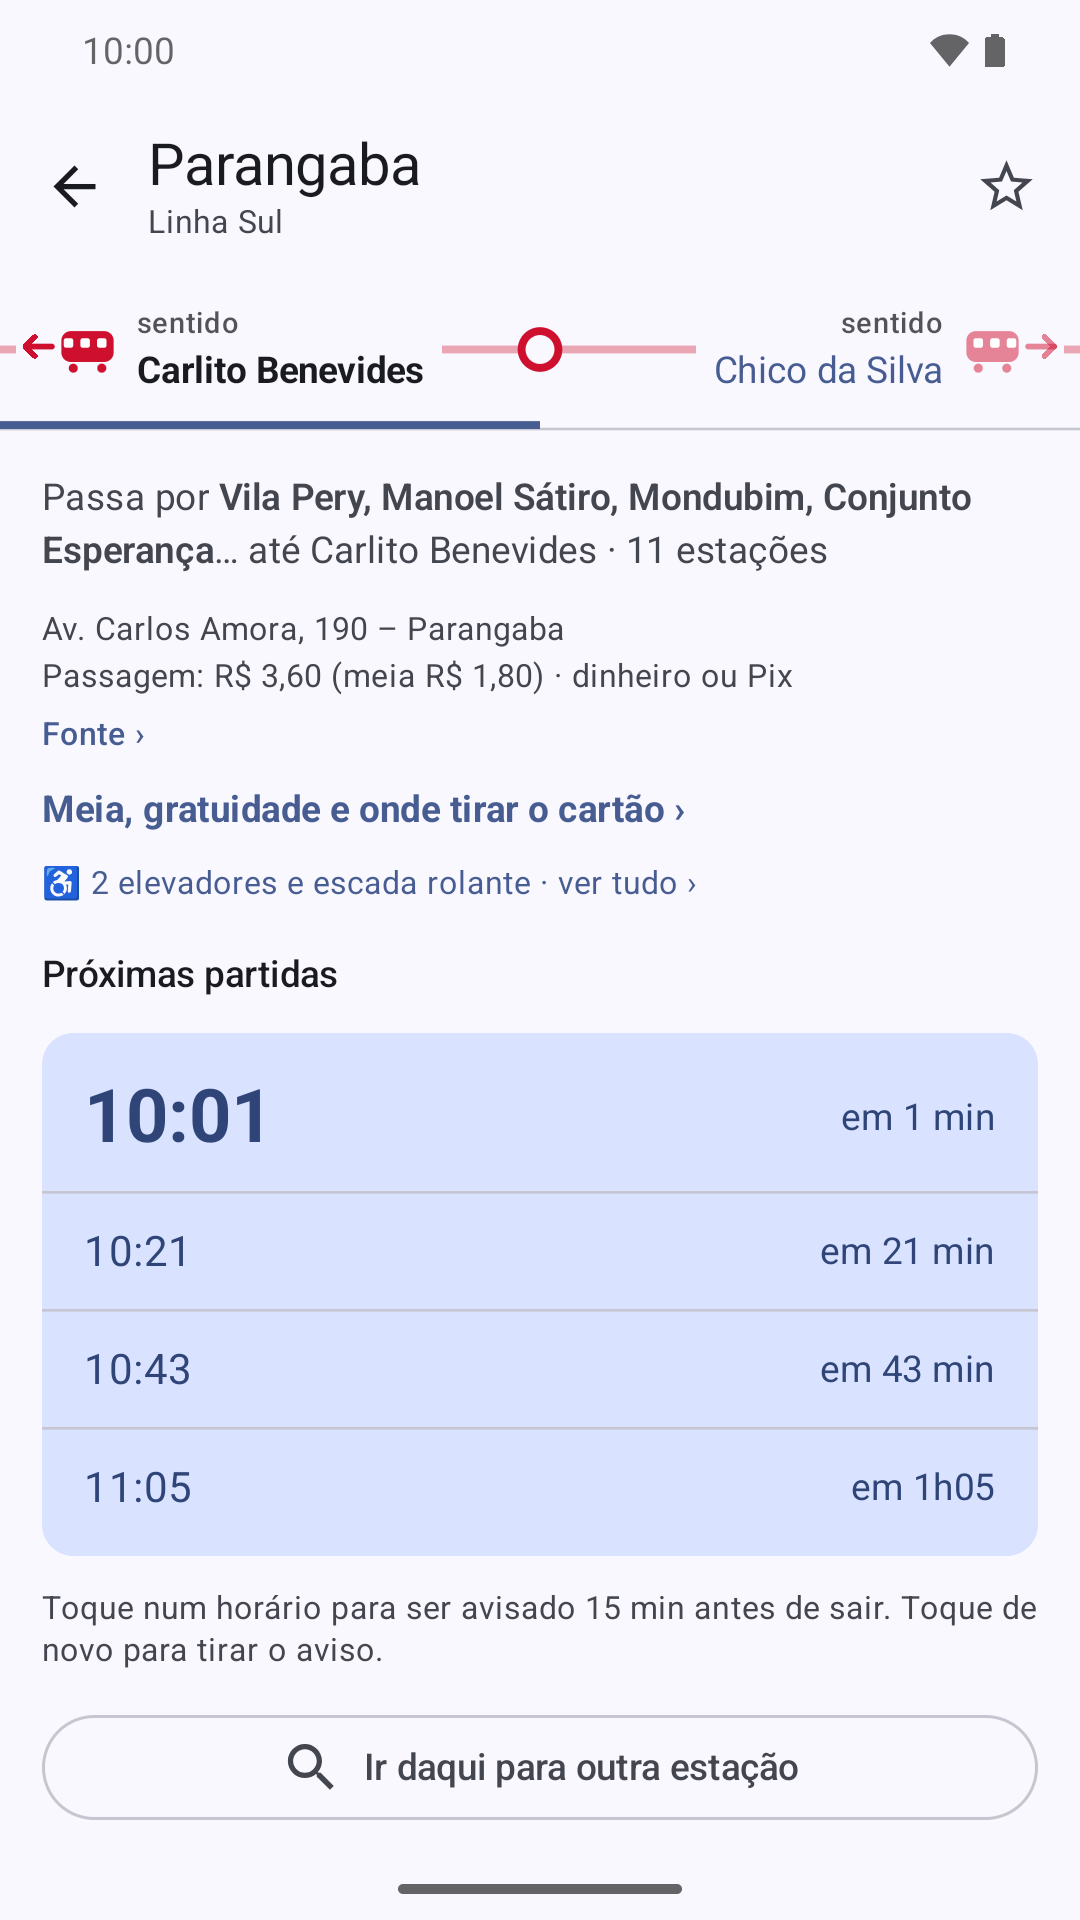
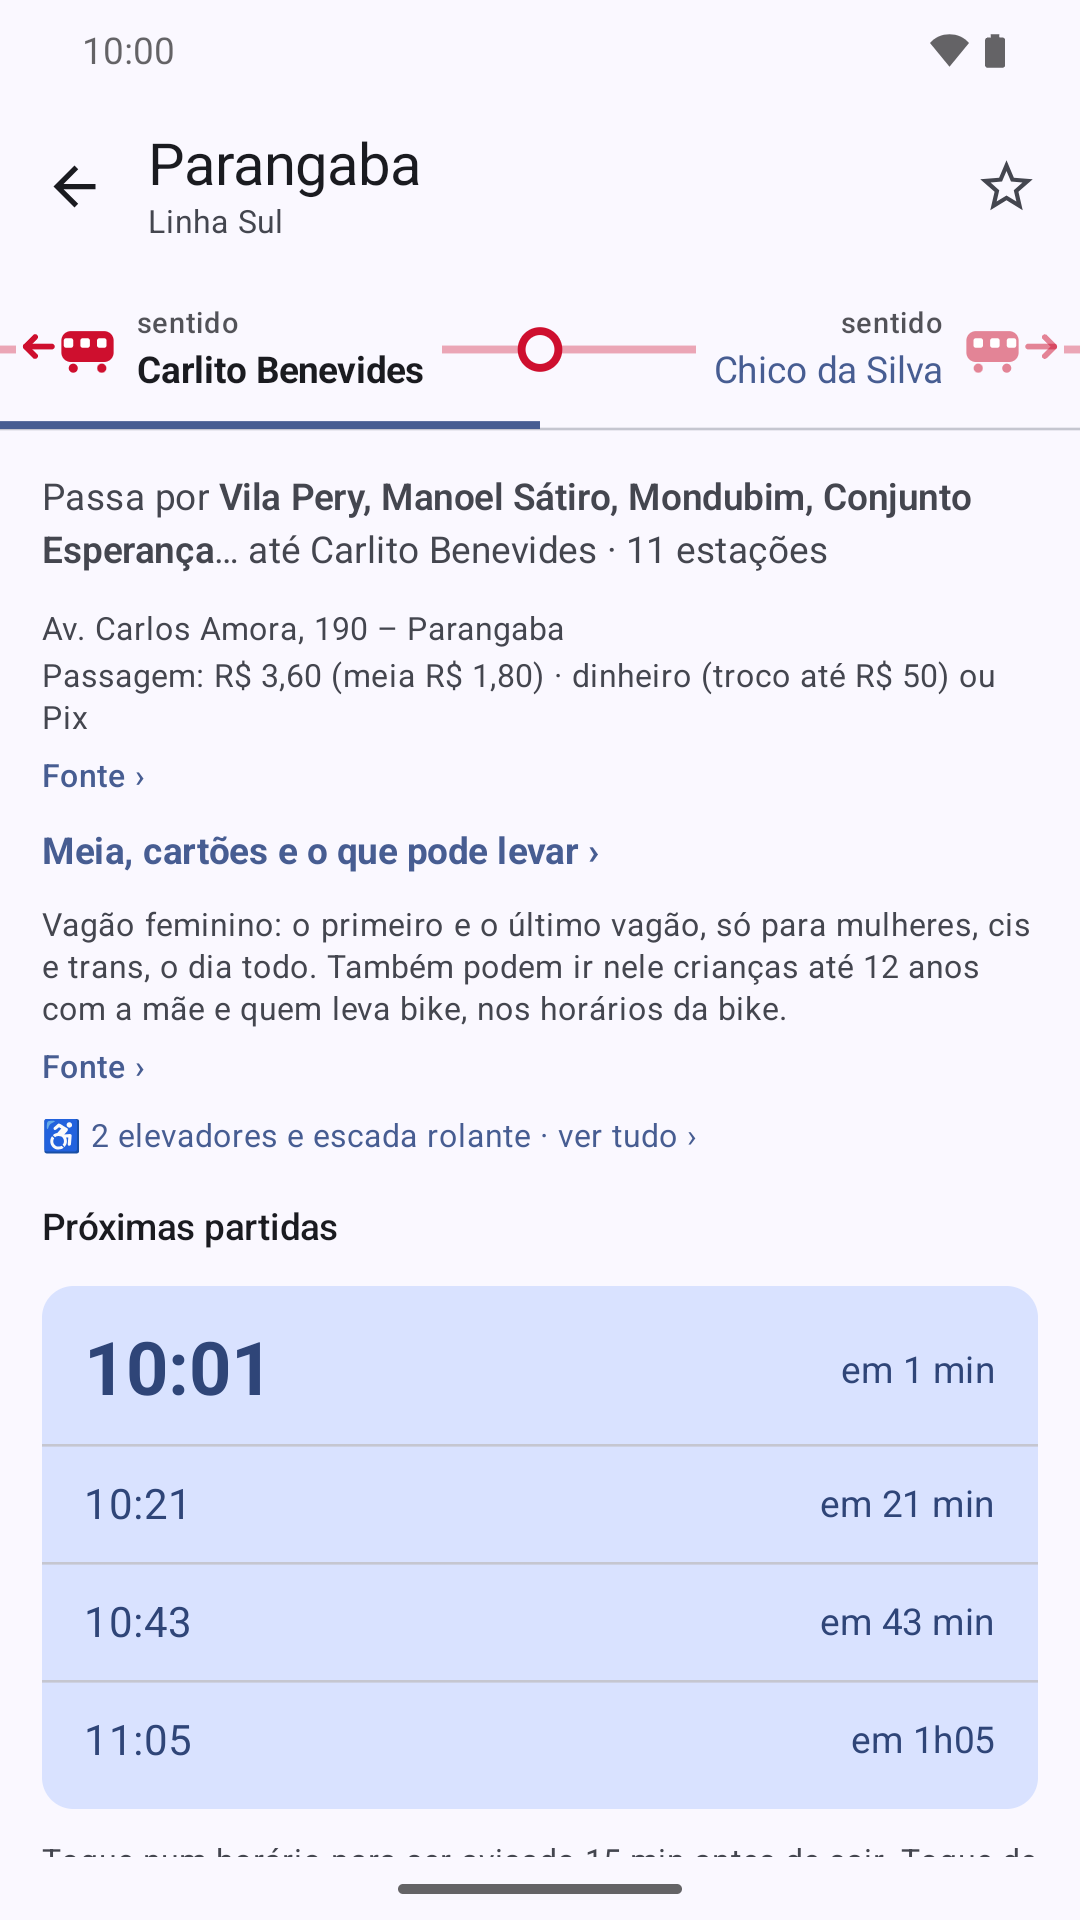
Capturas 1, 2, 5, 7 e destaque com a 1.108
Tela inicial com a Nina na barra de baixo e o Esconder de "Seus lugares",
Parangaba e São Benedito com o aviso do vagão feminino, e "Como você quer
ir?" com a Nina na barra. Feitas numa terça simulada (24/11) sem operação
especial no topo. No site, a descrição da captura da Parangaba acompanha.

Changed region(s): [[0.0306, 0.375, 0.9778, 0.9688], [0.6417, 0.3438, 0.9167, 0.375], [0.9167, 0.4688, 0.9472, 0.5]]

diff --git a/docs/index.html b/docs/index.html
@@ -221,7 +221,7 @@
     <div class="shots">
       <figure><img src="img/tela-1.jpg" alt="Tela inicial com Casa e Trabalho no topo e os próximos metrôs das duas estações mais próximas" loading="lazy"><figcaption>Estações perto de você</figcaption></figure>
       <figure><img src="img/tela-4.jpg" alt="Widgets na tela inicial com os próximos horários da estação" loading="lazy"><figcaption>Widget na tela inicial</figcaption></figure>
-      <figure><img src="img/tela-2.jpg" alt="Horários de uma estação, com a integração com a Linha Nordeste" loading="lazy"><figcaption>Todos os horários</figcaption></figure>
+      <figure><img src="img/tela-2.jpg" alt="Horários da estação Parangaba, com endereço, passagem e o aviso do vagão feminino" loading="lazy"><figcaption>Todos os horários</figcaption></figure>
       <figure><img src="img/tela-3.jpg" alt="Modo viagem com o aviso de descida" loading="lazy"><figcaption>Aviso para descer</figcaption></figure>
       <figure><img src="img/tela-6.jpg" alt="Viagem de São Benedito a Papicu: cada horário num cartão, com a duração, a integração em Parangaba e as linhas Sul e Nordeste" loading="lazy"><figcaption>Cada horário um cartão</figcaption></figure>
       <figure><img src="img/tela-5.jpg" alt="Horários de uma estação com o aviso da hora de sair marcado num toque, com o sininho" loading="lazy"><figcaption>Aviso da hora de sair</figcaption></figure>
